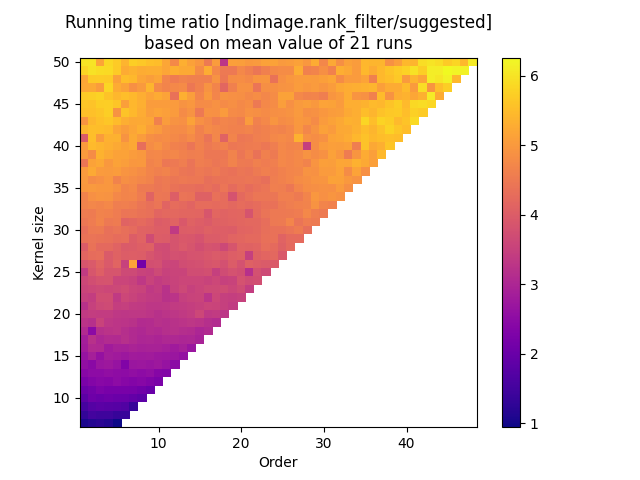
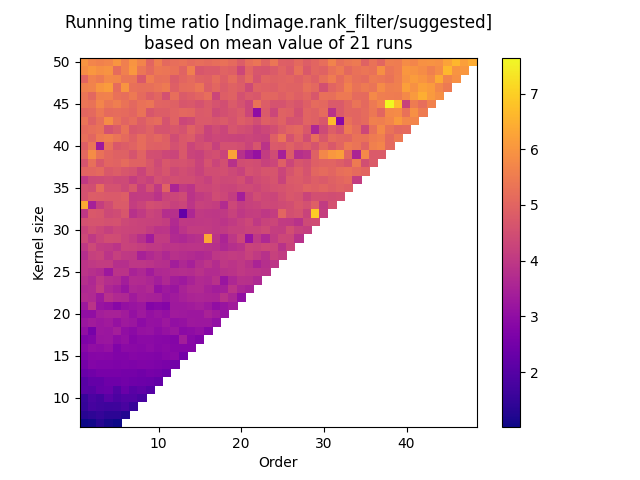
imporved boundray condition handling

diff --git a/median_filter/_rank_filter_1d.c b/median_filter/_rank_filter_1d.c
@@ -144,21 +144,20 @@ void rank_filter(double* in, double* out, int arr_len, int win_len, int order, M
 
    switch (mode)
    {
-      // -------------------loks wrong!!!!--------------------
       case REFLECT:
-      for (i=win_len - 1; i >-1; i--){MediatorInsert(m, in[i]);}
+      for (i=win_len - lim - 1; i >-1; i--){MediatorInsert(m, in[i]);}
       break;
       case CONSTANT:
-      for (i=win_len - 1; i >-1; i--){MediatorInsert(m, cval);}
+      for (i=win_len - lim; i >0; i--){MediatorInsert(m, cval);}
       break;
       case NEAREST:
-      for (i=win_len - 1; i >-1; i--){MediatorInsert(m, in[0]);}
+      for (i=win_len - lim; i >0; i--){MediatorInsert(m, in[0]);}
       break;
       case MIRROR:
-      for (i=win_len - 1; i > 0; i--){MediatorInsert(m, in[i]);}
+      for (i=win_len - lim; i > 0; i--){MediatorInsert(m, in[i]);}
       break;
       case WRAP:
-      for (i=arr_len - win_len; i < arr_len; i++){MediatorInsert(m, in[i]);}
+      for (i=arr_len - lim - 1; i < arr_len; i++){MediatorInsert(m, in[i]);}
       break;
    }
 
